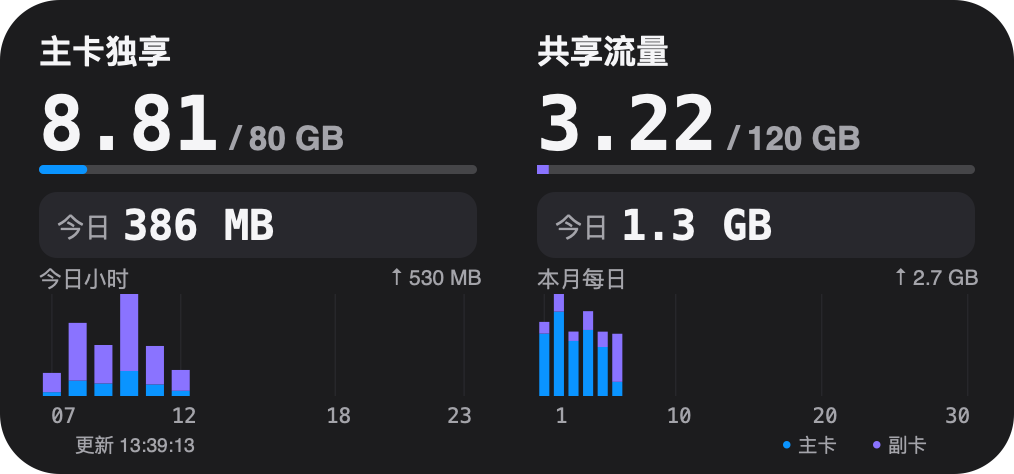
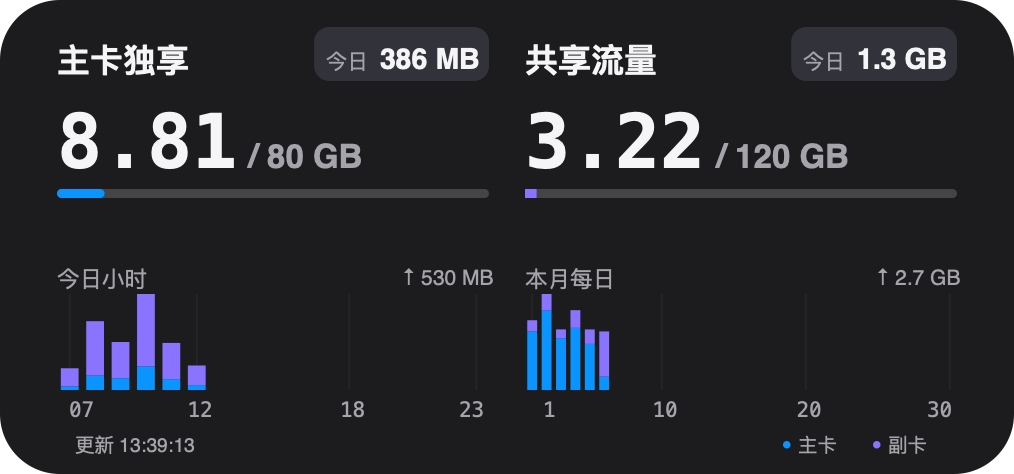
Refine Unicom widget layout and add independent today typography

diff --git a/scriptable/UnicomFlow.js b/scriptable/UnicomFlow.js
@@ -38,9 +38,9 @@ const UF = {
   form: 'language=chinese',
   refreshMinutes: 30, dataRequestMinutes: 30, crossDayLimitMB: 10,
   folder: 'UnicomFlow',
-  usageFont: 'SF Mono Medium', totalFont: '系统 Medium',
-  usageFontSize: 25, totalFontSize: 11, titleFontSize: null,
-  bg: '1C1C1E', text: 'F5F5F7', muted: 'A4A4AA', track: '454548', todayBg: '28282D',
+  usageFont: 'SF Mono Medium', totalFont: '系统 Medium', todayFont: '系统 Medium',
+  usageFontSize: 25, totalFontSize: 11, todayFontSize: 9.5, titleFontSize: null,
+  bg: '1C1C1E', text: 'F5F5F7', muted: 'A4A4AA', track: '454548', todayBg: '32323A',
   blue: '0A94FF', purple: '8A73FF', warning: 'FFD166', gridMajor: '38383C', gridMinor: '27272B',
 };
 const UF_DEFAULTS = { ...UF };
@@ -72,8 +72,8 @@ function normalizedTitleSize(value) {
 }
 
 const UF_THEMES = {
-  黑色: { bg: '1C1C1E', text: 'F5F5F7', muted: 'A4A4AA', track: '454548', todayBg: '28282D', blue: '0A94FF', purple: '8A73FF', warning: 'FFD166', gridMajor: '38383C', gridMinor: '27272B' },
-  白色: { bg: 'FFFFFF', text: '1C1C1E', muted: '686870', track: 'E5E5EA', todayBg: 'F0F3F7', blue: '007AFF', purple: '7552D9', warning: '946200', gridMajor: 'D1D1D6', gridMinor: 'F0F0F3' },
+  黑色: { bg: '1C1C1E', text: 'F5F5F7', muted: 'A4A4AA', track: '454548', todayBg: '32323A', blue: '0A94FF', purple: '8A73FF', warning: 'FFD166', gridMajor: '38383C', gridMinor: '27272B' },
+  白色: { bg: 'FFFFFF', text: '1C1C1E', muted: '686870', track: 'E5E5EA', todayBg: 'E6EDF6', blue: '007AFF', purple: '7552D9', warning: '946200', gridMajor: 'D1D1D6', gridMinor: 'F0F0F3' },
 };
 
 function applyTheme(settings = {}) {
@@ -1148,7 +1148,7 @@ function numberWidth(value, size, kind) {
 
 function text(ctx, value, x, y, width, height, size, color = UF.text, mono = false, centered = false, medium = false) {
   ctx.setTextColor(new Color(color));
-  ctx.setFont(mono === 'number' || mono === 'total' ? numberFont(size, mono === 'total' ? 'total' : 'usage') : mono ? Font.regularMonospacedSystemFont(size) : medium ? Font.mediumSystemFont(size) : Font.systemFont(size));
+  ctx.setFont(['number', 'total', 'today'].includes(mono) ? numberFont(size, mono === 'number' ? 'usage' : mono) : mono ? Font.regularMonospacedSystemFont(size) : medium ? Font.mediumSystemFont(size) : Font.systemFont(size));
   if (centered === 'right') ctx.setTextAlignedRight(); else if (centered) ctx.setTextAlignedCenter(); else ctx.setTextAlignedLeft();
   ctx.drawTextInRect(value, new Rect(x, y, width, height));
 }
@@ -1232,10 +1232,18 @@ function drawMetric(ctx, metric, label, x, y, width, compact, today = false, dai
   }
 }
 
-function drawCombinedMetric(ctx, metric, label, daily, x, width, detailRow) {
+function drawCombinedMetric(ctx, metric, label, daily, x, width) {
   const title = ['通用', '定向'].includes(label) ? '数据流量·' + label : label;
-  const titleSize = Math.min(UF.titleFontSize || 11, width / Math.max(1, title.length));
-  text(ctx, title, x, 10, width, 15, titleSize, UF.text, false, false, true);
+  const todayValue = formatMB(daily, 'daily').replace(/(MB|GB)$/, ' $1');
+  const stampLimit = width * 0.55, stampLabel = 7;
+  const todaySize = Math.min(UF.todayFontSize, (stampLimit - 26) / Math.max(1, numberWidth(todayValue, 1, 'today')));
+  const stampWidth = 26 + numberWidth(todayValue, todaySize, 'today'), stampX = x + width - stampWidth;
+  const titleWidth = stampX - x - 5;
+  const titleSize = Math.min(UF.titleFontSize || 11, titleWidth / Math.max(1, title.length));
+  text(ctx, title, x, 13, titleWidth, 16, titleSize, UF.text, false, false, true);
+  roundedRect(ctx, stampX, 9, stampWidth, 18, 5, UF.todayBg);
+  text(ctx, '今日', stampX + 4, 16, 14, 11, stampLabel, UF.muted);
+  text(ctx, todayValue, stampX + 22, 23 - todaySize, stampWidth - 26, 18, todaySize, UF.text, 'today');
   const used = metric ? metric.used / 1024 : null;
   const primary = used == null ? '—' : used > 0 && used < 0.01 ? '<0.01' : used.toFixed(2);
   const quota = metric ? metric.total == null ? ' / 不限量' : ` / ${formatGB(metric.total, true)} GB` : '';
@@ -1244,10 +1252,10 @@ function drawCombinedMetric(ctx, metric, label, daily, x, width, detailRow) {
   const primarySize = Math.min(UF.usageFontSize, (width - numberWidth(suffix, quotaSize, 'total') - 2)
     / Math.max(1, numberWidth(primary, 1, 'usage')));
   const valueWidth = numberWidth(primary, primarySize, 'usage');
-  text(ctx, primary, x, 25, valueWidth + 2, 29, primarySize, UF.text, 'number');
-  if (suffix) text(ctx, suffix, x + valueWidth + 2, 25 + primarySize - quotaSize,
+  text(ctx, primary, x, 31, valueWidth + 2, 29, primarySize, UF.text, 'number');
+  if (suffix) text(ctx, suffix, x + valueWidth + 2, 31 + primarySize - quotaSize,
     width - valueWidth - 2, 17, quotaSize, UF.muted, 'total');
-  const trackY = 55, trackH = 3;
+  const trackY = 63, trackH = 3;
   roundedRect(ctx, x, trackY, width, trackH, 1.5, UF.track);
   const c = metric && metric.composition;
   if (metric && metric.total > 0 && metric.used > 0) {
@@ -1258,21 +1266,15 @@ function drawCombinedMetric(ctx, metric, label, daily, x, width, detailRow) {
       if (c.vice > 0) { ctx.setFillColor(new Color(UF.purple)); ctx.fillRect(new Rect(x + c.main * scale, trackY, c.vice * scale, trackH)); }
     } else if (!c) roundedRect(ctx, x, trackY, metric.used * scale, trackH, 1.5, UF.blue);
   }
-  if (c && !c.complete) text(ctx, '明细未确认', x, 61, width, 10, 7, UF.warning);
+  if (c && !c.complete) text(ctx, '明细未确认', x, 67, width, 9, 6.5, UF.warning);
   else if (c && c.main > 0) {
     const half = width / 2;
     for (const [index, name, value, color] of [[0, '主', c.main, UF.blue], [1, '副', c.vice, UF.purple]]) {
-      roundedRect(ctx, x + index * half, 64, 2.5, 2.5, 1.25, color);
-      text(ctx, `${name} ${formatMB(value).replace(/(MB|GB)$/, ' $1')}`, x + index * half + 5, 61,
-        half - 5, 11, Math.min(7.5, UF.totalFontSize), UF.muted);
+      roundedRect(ctx, x + index * half, 69, 2, 2, 1, color);
+      text(ctx, `${name} ${formatMB(value).replace(/(MB|GB)$/, ' $1')}`, x + index * half + 4, 67,
+        half - 4, 9, 6.5, UF.muted);
     }
   }
-  const dailyY = detailRow ? 73 : 65;
-  roundedRect(ctx, x, dailyY - 1, width, 22, 6, UF.todayBg);
-  text(ctx, '今日', x + 6, dailyY + 5, 18, 13, 9, UF.muted);
-  const todayValue = formatMB(daily, 'daily').replace(/(MB|GB)$/, ' $1');
-  const size = Math.min(14, UF.usageFontSize, (width - 34) / Math.max(1, numberWidth(todayValue, 1, 'usage')));
-  text(ctx, todayValue, x + 28, dailyY + 1, width - 34, 20, size, UF.text, 'number');
 }
 
 function drawCompactChart(ctx, slots, title, x, y, width) {
@@ -1281,7 +1283,7 @@ function drawCompactChart(ctx, slots, title, x, y, width) {
   const peakLabel = sampled.length ? formatMB(peak, 'daily').replace(/(MB|GB)$/, ' $1') : '—';
   text(ctx, title, x, y - 10, width * 0.55, 10, 7.5, UF.muted);
   text(ctx, `↑ ${peakLabel}`, x + width * 0.55, y - 10, width * 0.45, 10, 7, UF.muted, false, 'right');
-  const bottomY = 132;
+  const bottomY = 130;
   const unit = width / slots.reduce((n, d) => n + (d.weight || 1), 0), chartH = bottomY - y;
   let offset = 0;
   slots.forEach(slot => {
@@ -1332,13 +1334,12 @@ function renderImage(result, medium, width, height, mode = 'month') {
   const now = Date.now();
   const buckets = medium && today ? todayBuckets(result.history, now) : [];
   if (combined) {
-    const col = (width - 2 * pad - 20) / 2, rightX = pad + col + 20;
-    const detailRow = [metrics.left, metrics.right].some(metric => metric && metric.composition
-      && (!metric.composition.complete || metric.composition.main > 0));
-    drawCombinedMetric(ctx, metrics.left, metrics.leftLabel, daily[0], pad, col, detailRow);
-    drawCombinedMetric(ctx, metrics.right, metrics.rightLabel, daily[1], rightX, col, detailRow);
-    const chartY = detailRow ? 106 : 98;
-    drawCompactChart(ctx, widgetHourSlots(result.history, now), '今日小时', pad, chartY, col);
+    const leftX = pad + 6, col = (width - 2 * leftX - 12) / 2, rightX = leftX + col + 12;
+    drawCombinedMetric(ctx, metrics.left, metrics.leftLabel, daily[0], leftX, col);
+    drawCombinedMetric(ctx, metrics.right, metrics.rightLabel, daily[1], rightX, col);
+    // 下半双图直接使用整卡背景，靠12点留白和列对齐分区。
+    const chartY = 98;
+    drawCompactChart(ctx, widgetHourSlots(result.history, now), '今日小时', leftX, chartY, col);
     const month = monthlyReport(result.history, now);
     const days = month.days.map((d, index) => ({ ...d, samples: d.intervals,
       label: [0, 9, 19, month.days.length - 1].includes(index) ? String(index + 1) : '' }));
@@ -1505,9 +1506,9 @@ function createWidgetClass(DmYY) {
       if (Object.prototype.hasOwnProperty.call(this.settings, 'displayMode')) {
         delete this.settings.displayMode; changed = true;
       }
-      for (const kind of ['usage', 'total']) {
+      for (const kind of ['usage', 'total', 'today']) {
         const key = kind + 'Font';
-        const font = normalizedNumberFont(this.settings[key] || this.settings.numberFont, UF_DEFAULTS[key]);
+        const font = normalizedNumberFont(this.settings[key] || (kind !== 'today' && this.settings.numberFont), UF_DEFAULTS[key]);
         if (this.settings[key] !== font) { this.settings[key] = font; changed = true; }
       }
       // 只迁移上一版完整默认组合；用户已改过任一项时保留整组选择。
@@ -1549,7 +1550,7 @@ function createWidgetClass(DmYY) {
       UF.crossDayLimitMB = Number.isFinite(crossLimit) && crossLimit >= 0 && crossLimit <= 1024 ? crossLimit : UF_DEFAULTS.crossDayLimitMB;
       applyTheme(this.settings);
       UF.titleFontSize = normalizedTitleSize(this.settings.titleFontSize);
-      for (const kind of ['usage', 'total']) {
+      for (const kind of ['usage', 'total', 'today']) {
         UF[kind + 'Font'] = normalizedNumberFont(this.settings[kind + 'Font'], UF_DEFAULTS[kind + 'Font']);
         UF[kind + 'FontSize'] = normalizedFontSize(this.settings[kind + 'FontSize'], kind);
       }
@@ -1824,18 +1825,18 @@ function createWidgetClass(DmYY) {
     }
 
     async fontSettings() {
-      const groups = [['usage', '用量文字', 12, 28], ['total', '总量与百分比', 6, 14]];
+      const groups = [['usage', '用量文字', 12, 28], ['total', '总量与百分比', 6, 14], ['today', '今日用量（综合中号）', 6, 14]];
       const sections = groups.map(([kind, title, min, max]) => ({ title, menu: [
         { name: kind + 'Font', val: kind + 'Font', title: '字体', type: 'select',
           options: Object.keys(UF_NUMBER_FONTS), defaultValue: this.settings[kind + 'Font'], icon: { name: 'textformat', color: '#007AFF' } },
         { name: kind + 'FontSize', val: kind + 'FontSize', title: '文字大小', type: 'input',
           defaultValue: String(normalizedFontSize(this.settings[kind + 'FontSize'], kind)),
-          desc: `小号、中号共用；输入 ${min}—${max}，支持小数；内容过宽时自动缩小`,
+          desc: `${kind === 'today' ? '综合中号标题右侧' : '小号、中号共用'}；输入 ${min}—${max}，支持小数；内容过宽时自动缩小`,
           icon: { name: 'textformat.size', color: '#007AFF' },
           onClick: async (_, __, view) => {
             const key = kind + 'FontSize';
             const a = new Alert(); a.title = title + '大小';
-            a.message = `小号、中号共用。请输入 ${min}—${max} 之间的字号，支持小数；内容过宽时自动缩小。`;
+            a.message = `${kind === 'today' ? '综合中号标题右侧今日用量。' : '小号、中号共用。'}请输入 ${min}—${max} 之间的字号，支持小数；内容过宽时自动缩小。`;
             a.addTextField(String(UF_DEFAULTS[key]), String(normalizedFontSize(this.settings[key], kind)));
             a.addAction('保存'); a.addCancelAction('取消');
             if (await a.presentAlert() < 0) return;

diff --git a/docs/unicom-flow/README.md b/docs/unicom-flow/README.md
@@ -19,9 +19,9 @@
 
 今日视图标题为“共享流量 · 今日”／“主卡独享 · 今日”（未识别共享属性时沿用通用／定向分类），大数字显示该组套餐的今日已记录增量；下方固定使用 GB，格式如 `6.8 / 120 GB`，斜杠两侧和数字与单位间各留固定 2 点间距，不加“本月”文字、不显示百分比。竖条仍表示月套餐已用比例。图表只保留主卡／副卡色点和名称，不重复用量数字；共享池下方不再额外显示逐卡月用量。今日中号继续显示一张完整宽度的小时图，两种模式的底部图例统一为“主卡／副卡”，不显示用量数字。
 
-本月中号采用综合布局，不新增参数：左主卡独享、右共享流量，未识别共享属性时回退通用／定向。每栏顶部只保留套餐标题，大数字显示月已用，与总量同排（如 `8.81 / 80 GB`）；综合中号不显示百分比，保留2—3点高的横向月进度条。下方用一条薄浅底突出次一级的“今日”合计，“今日”标签与数值紧邻排列，不再左右拉开；白色、黑色主题分别使用对应浅底。共享池主卡用量确认为0且成员合计完整时，不显示逐卡明细；主卡实际共享用量大于0时，在月进度条下显示一行本月主／副卡用量；成员缺失或合计不符时显示“明细未确认”，保留灰条，不猜测。共享月进度条以套餐总量为整条宽度，蓝色主卡、紫色副卡相邻堆叠，不夸大短段；今日不再重复逐卡数字。
+本月中号采用综合布局，不新增参数：左主卡独享、右共享流量，未识别共享属性时回退通用／定向。卡片上半部保持白底，两列套餐不套独立底板：标题右侧用小胶囊显示“今日”及合计，月已用大数字和总量同排（如 `8.81 / 80 GB`），底部保留2—3点高的横向月进度条，不显示百分比。月已用和总量继续分别使用菜单原有的“用量文字”“总量与百分比”字体、字号设置；今日胶囊的数字及单位使用新增“今日用量（综合中号）”独立设置。白色、黑色主题均有对应浅底。共享池主卡用量确认为0且成员合计完整时，不显示逐卡明细；主卡实际共享用量大于0时，在月进度条下显示一行本月主／副卡用量；成员缺失或合计不符时显示“明细未确认”，保留灰条，不猜测。共享月进度条以套餐总量为整条宽度，蓝色主卡、紫色副卡相邻堆叠，不夸大短段；今日不再重复逐卡数字。
 
-综合中号底部左侧为“今日小时”，右侧为“本月每日”，都统计全部套餐；蓝色主卡包含独享和共享，紫色副卡为其共享用量，未知归属使用提示色。两图分别缩放并显示峰值，直接置于卡片背景上，不增加图表底框或分隔线；更新时间在左下角、图例在右下角；综合中号两者分别向中间内收10点并下移4点，保留圆角安全区，双图绘图区和刻度随之向下延长4点。双位小时／日期标签至少预留14点宽及11点高，避免真机截断。没有采样和未来位置留空，真实零值才画短标记。月图按实际月份保留28—31个逐日位置，只标1、10、20及月末，不添加今日黑点标记。
+综合中号底部左侧为“今日小时”，右侧为“本月每日”，都统计全部套餐；蓝色主卡包含独享和共享，紫色副卡为其共享用量，未知归属使用提示色。图表分区从158点设计高度的79点开始，严格位于下半部，直接使用整卡背景，不铺图表底色；靠12点列间距与上方套餐列对齐来区分，不加底板、描边或分隔线，仅保留标题右侧今日胶囊的浅底强调；两图分别缩放并显示峰值。更新时间在左下角、图例在右下角；综合中号两者分别向中间内收10点并下移4点，保留圆角安全区，双图刻度与底部信息保留独立空间。双位小时／日期标签至少预留14点宽及11点高，避免真机截断。没有采样和未来位置留空，真实零值才画短标记。月图按实际月份保留28—31个逐日位置，只标1、10、20及月末，不添加今日黑点标记。
 
 仅综合中号的小时图会隐藏低用量夜间：00—06点已完整结束、有效采样区间连续覆盖全段，且包含跨边界区间在内的用量上界严格小于10 MB时，不画“00–06”合并柱或夜间数值；横轴从06点后首个有正用量的小时起显示，例如07，并连续保留至23点，中间的零值、缺采样和未来位置不删除。尚无白天正用量时保留06—23的位置。正好06:00结束的夜间区间不在06时重复绘制。隐藏的夜间仍计入今日总量；达到10 MB、06点前、区间有缺口或跨边界用量无法确认时保留完整00—23。仅改变综合中号显示，不修改历史、独立今日中号或统计页。
 
@@ -54,7 +54,7 @@
 
 独享流量优先：小号上方为主卡独享、下方为共享流量；中号左侧为主卡独享、右侧为共享流量。本月、今日两种模式顺序一致，通用／定向的回退顺序不变。
 
-“组件配置 → 字体与字号”分别设置**用量文字**和**总量与百分比**，两组可以选择不同字体；每组只有一个字体菜单，选项为系统 Regular、系统 Medium、SF Mono Regular、SF Mono Medium、Menlo Regular。Menlo 没有原生 Medium，不作伪造或替代；不可用时回退系统等宽 Regular。选择菜单沿用 DmYY 普通文字，不提供字体预览。小号、中号共用设置，默认用量 SF Mono Medium 25 号、总量系统 Medium 11 号；直接输入数字（支持小数），用量允许 12—28，总量允许 6—14，超宽文字自动缩小以适应卡片，不改变保存的字号。旧数字字体设置自动迁移到两组字体；上一版完整默认组合会一次性切换到新默认，已自定义的组合保留，不清除历史。用量行略上移、总量行略下移，为 Medium 25 号留出间距。用量数字和总量从竖条右侧同一位置起排，MB／GB 单位与用量数字使用相同字体、字重、字号，以 2 点窄间距分隔，避免等宽字体普通空格过宽；超宽时数字和单位同步缩小。总量的数字与单位也采用固定 2 点窄间距，单位与百分比括号之间不加空格，例如 `120 GB(6%)`。主副卡说明使用系统常规字体，标题使用系统中等字重，小时／日期刻度保留等宽字体。“标题文字”另提供独立字号输入，大小号共用，允许 8—12（支持小数）；留空恢复小号10、中号11，长标题自动缩小以适应宽度。大数字表示已用，下方表示套餐总量和已用百分比，小号与独立今日中号继续使用数字左侧的竖进度条，从底部向上增长；本月综合中号使用上述横向分段进度条。主卡独享等普通套餐的竖条表示已用比例；共享池的整条高度代表套餐总量，底部蓝色段表示主卡已用、其上紫色段表示副卡已用，剩余灰色表示未用流量。例如共享总量 120 GB、主卡已用 1.2 GB、副卡已用 2.02 GB 时，两段合计只占整条约 2.68%。下方标明两张卡各自的共享用量，蓝色为主卡、紫色为副卡；主卡共享用量确认为 0 且逐卡合计完整时，小号与中号都省略这组图例，数据缺失时仍保留提示；成员缺失或合计不符时保留灰条并提示，不推算缺失用量。左右留白按 158 点设计高度收窄为 13 点，小号顶部为 12 点；共享条的彩色段同样使用圆头，短段按实际高度绘制椭圆圆角，不夸大用量；大小卡片底部均显示精确到秒的最后一次成功查询时间，小号、中号均不显示刷新图标、不设置单独的刷新点击区域，中号整卡链接打开本地用量统计，保留圆角安全留白。缓存或未识别明细的提示仍保留在安全区域内。不同手机尺寸统一按设计高度缩放布局。整卡使用背景图填满组件，避免固定宽度内容图片产生边缘细线；小时标签、竖线、柱子共用每格中心点对齐。在“组件配置 → 组件主题”选择黑色或白色，默认黑色，不随系统自动变化。两种主题分别保存自定义颜色，切换后文字、刻度、背景和提示颜色一起变化；可在“颜色配置”中调整当前主题。原版本的颜色设置仅迁移到黑色主题，避免白色主题套用旧的黑底配置。不限量套餐不计算百分比；没有返回某一类明细时显示 `--`，不伪装成 0。
+“组件配置 → 字体与字号”分别设置**用量文字**、**总量与百分比**和**今日用量（综合中号）**，三组可以选择不同字体和字号；每组只有一个字体菜单，选项为系统 Regular、系统 Medium、SF Mono Regular、SF Mono Medium、Menlo Regular。Menlo 没有原生 Medium，不作伪造或替代；不可用时回退系统等宽 Regular。选择菜单沿用 DmYY 普通文字，不提供字体预览。小号、中号共用设置，默认用量 SF Mono Medium 25 号、总量系统 Medium 11 号；直接输入数字（支持小数），用量允许 12—28，总量允许 6—14，超宽文字自动缩小以适应卡片，不改变保存的字号。旧数字字体设置自动迁移到用量、总量两组字体；新增今日设置独立采用默认系统 Medium 9.5号，不覆盖已保存的用量／总量设置，允许6—14号（支持小数），只影响综合中号标题右侧的今日数字和单位，不改变小号或独立今日视图。三组文字过宽时只缩小实际绘制字号，不修改保存值。上一版完整默认组合会一次性切换到新默认，已自定义的组合保留，不清除历史。用量行略上移、总量行略下移，为 Medium 25 号留出间距。用量数字和总量从竖条右侧同一位置起排，MB／GB 单位与用量数字使用相同字体、字重、字号，以 2 点窄间距分隔，避免等宽字体普通空格过宽；超宽时数字和单位同步缩小。总量的数字与单位也采用固定 2 点窄间距，单位与百分比括号之间不加空格，例如 `120 GB(6%)`。主副卡说明使用系统常规字体，标题使用系统中等字重，小时／日期刻度保留等宽字体。“标题文字”另提供独立字号输入，大小号共用，允许 8—12（支持小数）；留空恢复小号10、中号11，长标题自动缩小以适应宽度。大数字表示已用，下方表示套餐总量和已用百分比，小号与独立今日中号继续使用数字左侧的竖进度条，从底部向上增长；本月综合中号使用上述横向分段进度条。主卡独享等普通套餐的竖条表示已用比例；共享池的整条高度代表套餐总量，底部蓝色段表示主卡已用、其上紫色段表示副卡已用，剩余灰色表示未用流量。例如共享总量 120 GB、主卡已用 1.2 GB、副卡已用 2.02 GB 时，两段合计只占整条约 2.68%。下方标明两张卡各自的共享用量，蓝色为主卡、紫色为副卡；主卡共享用量确认为 0 且逐卡合计完整时，小号与中号都省略这组图例，数据缺失时仍保留提示；成员缺失或合计不符时保留灰条并提示，不推算缺失用量。左右留白按 158 点设计高度收窄为 13 点，小号顶部为 12 点；共享条的彩色段同样使用圆头，短段按实际高度绘制椭圆圆角，不夸大用量；大小卡片底部均显示精确到秒的最后一次成功查询时间，小号、中号均不显示刷新图标、不设置单独的刷新点击区域，中号整卡链接打开本地用量统计，保留圆角安全留白。缓存或未识别明细的提示仍保留在安全区域内。不同手机尺寸统一按设计高度缩放布局。整卡使用背景图填满组件，避免固定宽度内容图片产生边缘细线；小时标签、竖线、柱子共用每格中心点对齐。在“组件配置 → 组件主题”选择黑色或白色，默认黑色，不随系统自动变化。两种主题分别保存自定义颜色，切换后文字、刻度、背景和提示颜色一起变化；可在“颜色配置”中调整当前主题。原版本的颜色设置仅迁移到黑色主题，避免白色主题套用旧的黑底配置。不限量套餐不计算百分比；没有返回某一类明细时显示 `--`，不伪装成 0。
 
 脚本调用联通的套餐明细接口 `queryOcsPackageFlowLeftContentRevisedInJune`。其明细中的 `total/use/remain` 默认以 MB 计，明确带单位的数值按单位换算；不从首页汇总值推算通用／定向数据。
 
@@ -124,7 +124,7 @@
 
 数值精度：小组件 GB 用量保留一位，今日视图下方统一 GB 时不足 1 GB 保留两位。MB 用量大于等于10时保留整数，0.1至不足10时保留一位（舍入到10时显示10），非零且不足0.1时显示 `<0.1 MB`；真实零显示 `0 MB`，不换算 KB。月用量与今日用量采用相同 MB 规则。套餐总量默认一位，小数尾零去除（如 `120GB`、`80.5GB`）。统计网页非零用量统一两位，非零但不足 0.01 个显示单位时显示 `<0.01`，无数据为 `—`，确认零用量为 `0MB`（网页单位前留空格），百分比仍为整数。只改变显示，不改变统计精度或历史数据。
 
-中号图表随参数切换：`today` 显示今天 00—23 时的小时分布，标题“小时用量”；留空或 `month` 使用上述综合中号双图，其中月图标题“本月每日”，按当月实际天数绘制，日期刻度为1、10、20及月末日。月图直接读取已有每日用量记录，小时明细超过七天后月图仍能显示，不新增存储；无法拆分到某一天的跨午夜区间不塞入每日柱子，因此柱子合计可能低于月度统计合计。整卡图例统一移至中号卡片底部右侧，与更新时间同一行横排“蓝点＋主卡、紫点＋副卡”，同时解释套餐进度条和用量图，不再附加用量数字。小时／每日柱均保留主副卡堆叠颜色，未知归属仍用黄色表示，其详细数值在统计网页查看。图表底部保留更新时间，小号不增加图表。利用上方留白将柱图区高度由29增至35个设计点（约21%），标题、图例同步上移6点，柱子底边、刻度和更新时间不变；综合中号采用独立的双图间距；显示共享逐卡明细时同步下移今日条和图表，避免与文字重叠。
+中号图表随参数切换：`today` 显示今天 00—23 时的小时分布，标题“小时用量”；留空或 `month` 使用上述综合中号双图，其中月图标题“本月每日”，按当月实际天数绘制，日期刻度为1、10、20及月末日。月图直接读取已有每日用量记录，小时明细超过七天后月图仍能显示，不新增存储；无法拆分到某一天的跨午夜区间不塞入每日柱子，因此柱子合计可能低于月度统计合计。整卡图例统一移至中号卡片底部右侧，与更新时间同一行横排“蓝点＋主卡、紫点＋副卡”，同时解释套餐进度条和用量图，不再附加用量数字。小时／每日柱均保留主副卡堆叠颜色，未知归属仍用黄色表示，其详细数值在统计网页查看。图表底部保留更新时间，小号不增加图表。利用上方留白将柱图区高度由29增至35个设计点（约21%），标题、图例同步上移6点，柱子底边、刻度和更新时间不变；综合中号采用固定上下各半的布局，主副卡月明细出现在上半套餐分区内，双图不会因明细而侵入上半区域。
 
 - 首次运行显示“正在积累数据”，没有虚构历史。
 - 有增量的小时用蓝色主卡、紫色副卡堆叠显示，黄色表示归属未确认；成功采样且增量为零显示紫色短柱；过去且无样本的小时显示灰色短柱占位，未来小时留空。占位不计入统计。
